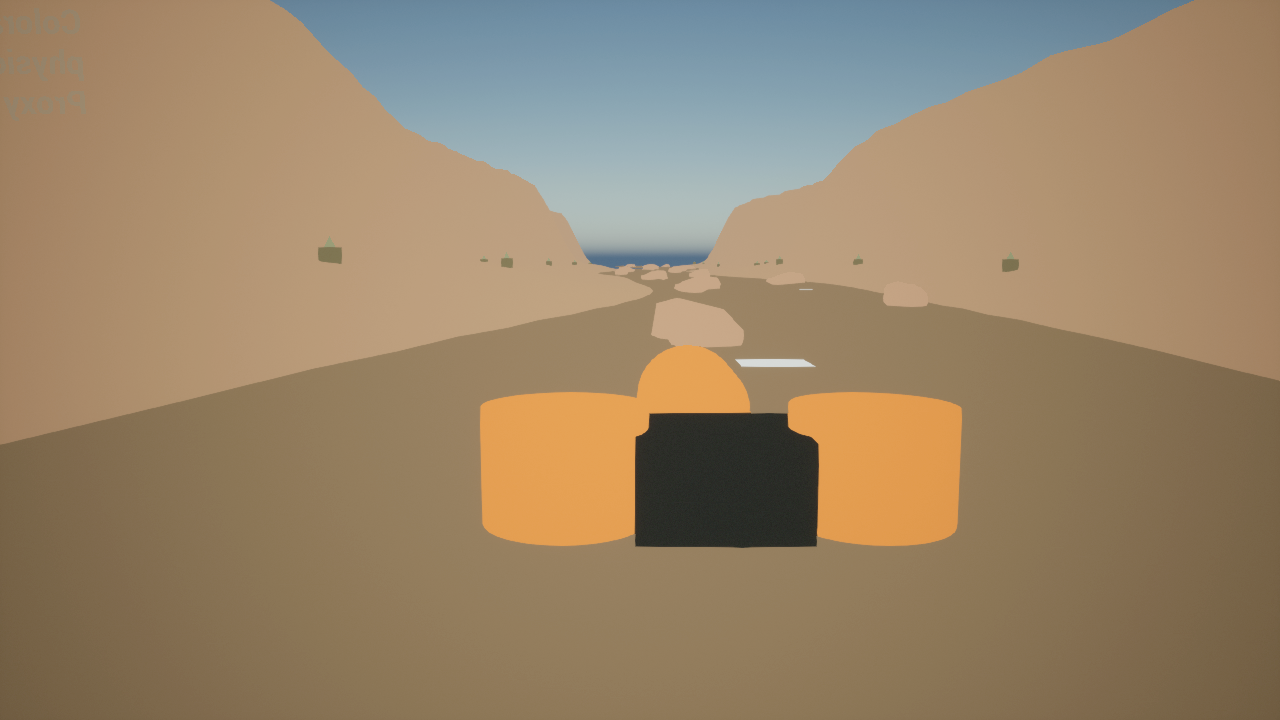
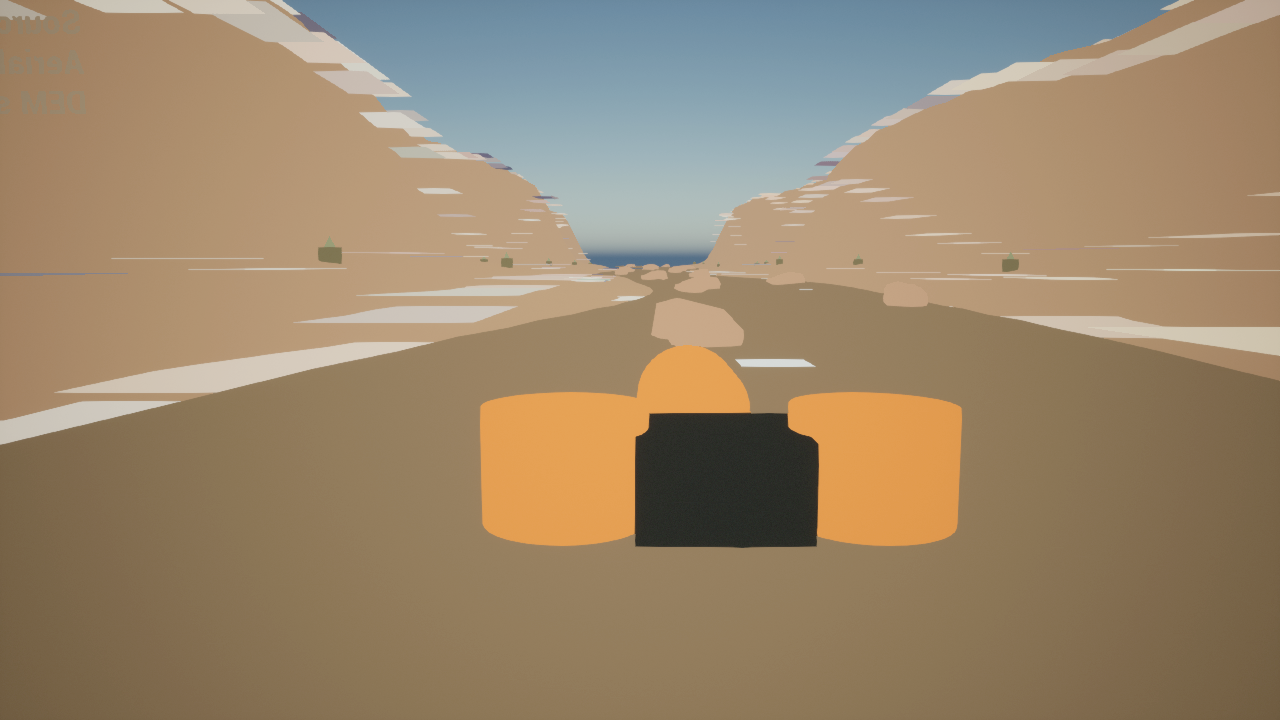
Add Colorado official source slice

diff --git a/unreal/Plugins/RaftSim/Source/RaftSimEditor/Private/RaftSimEditorModule.cpp b/unreal/Plugins/RaftSim/Source/RaftSimEditor/Private/RaftSimEditorModule.cpp
@@ -211,6 +211,12 @@ TArray<FRaftSimEnvironmentPreviewSpec> GetEnvironmentPreviewSpecs()
     Colorado.DisplayName = TEXT("Colorado River Grand Canyon");
     Colorado.MapPackagePath = TEXT("/Game/RaftSim/Maps/EnvironmentPreviews/L_ColoradoGrandCanyon_PhotorealPreview");
     Colorado.SourceManifest = TEXT("physics/data/real_world/colorado_river_grand_canyon_rowing/source_manifest.json");
+    Colorado.AerialDrapeImage =
+        TEXT("physics/data/real_world/colorado_river_grand_canyon_rowing/imagery/usda_naip_lees_ferry_sample_512.png");
+    Colorado.ElevationSample =
+        TEXT("physics/data/real_world/colorado_river_grand_canyon_rowing/terrain/usgs_3dep_lees_ferry_sample_256.tif");
+    Colorado.SourceDrapeDescription =
+        TEXT("official USDA/APFO NAIP 512px Lees Ferry aerial sample sampled into visible canyon terrain overlay tiles; USGS 3DEP GeoTIFF sample recorded for follow-on canyon heightfield conditioning; rocks, foliage, water, foam, raft, and lighting remain proxy layers");
     Colorado.WaterColor = FLinearColor(0.28f, 0.20f, 0.12f);
     Colorado.TerrainColor = FLinearColor(0.48f, 0.30f, 0.18f);
     Colorado.RockColor = FLinearColor(0.55f, 0.32f, 0.20f);
@@ -2181,7 +2187,7 @@ bool FRaftSimEditorModule::CapturePhotorealEnvironmentPreviews(FString& OutSumma
         TEXT("%s\n")
         TEXT("  ]\n")
         TEXT("}\n"),
-        bAllCaptured ? TEXT("south_fork_source_draped_preview_and_procedural_blockout_captures_available; photoreal source_data_and_asset_replacement_required") : TEXT("one_or_more_captures_failed"),
+        bAllCaptured ? TEXT("south_fork_and_colorado_source_draped_previews_and_pacuare_procedural_blockout_available; photoreal source_data_and_asset_replacement_required") : TEXT("one_or_more_captures_failed"),
         *EntriesJson);
 
     const FString ManifestPath = FPaths::Combine(CaptureRoot, TEXT("environment_capture_manifest.json"));

diff --git a/docs/photoreal-river-environment-production-plan.md b/docs/photoreal-river-environment-production-plan.md
@@ -85,6 +85,7 @@ Treat this as a rain-fed tropical gorge environment until authoritative hydrolog
 - Rendered guide-seat procedural blockout captures now exist under `docs/environment-captures/photoreal_river_previews/`, but they are not lifelike production evidence yet.
 - The first South Fork official source slice now exists at `physics/data/real_world/south_fork_american_chili_bar/production_source_pull_manifest.json`: historical USGS `11445500` daily discharge, TNM NHD product metadata, TNM DEM/NAIP zero-hit diagnostics, a small USGS 3DEP GeoTIFF sample, and a small USDA/APFO NAIP aerial sample.
 - The South Fork preview now uses the USDA/APFO NAIP sample as a source-derived visible terrain overlay in Unreal. This proves the imagery-to-editor path, but it is a small smoke-test raster rather than a complete orthomosaic or terrain material pass.
+- The first Colorado/Lees Ferry official source slice now exists at `physics/data/real_world/colorado_river_grand_canyon_rowing/production_source_pull_manifest.json`: USGS `09380000` and `09402500` daily discharge histories through July 4, 2026, a small USGS 3DEP GeoTIFF sample, and a small USDA/APFO NAIP aerial sample. The Colorado preview uses that NAIP sample as a source-derived visible canyon terrain overlay.
 - The existing default map path `/Game/RaftSim/Maps/L_RaftSimBoot` has no committed level asset yet.
 - Colorado and Pacuare still need real geospatial pulls, hydrology review, guide review, and rights-cleared field/reference media.
 - South Fork has the only solver corridor package, but its terrain, imagery, and field media are still representative placeholders rather than production pulls.
@@ -96,5 +97,6 @@ Treat this as a rain-fed tropical gorge environment until authoritative hydrolog
 - South Fork source data: `physics/data/real_world/south_fork_american_chili_bar/production_source_pull_manifest.json` records the initial official pull; this is enough to prove provenance plumbing but not enough for production terrain/imagery.
 - South Fork Unreal source layer: `physics/data/real_world/south_fork_american_chili_bar/imagery/usda_naip_chili_bar_sample_512.png` is sampled into visible terrain overlay tiles for the generated preview map; `physics/data/real_world/south_fork_american_chili_bar/terrain/usgs_3dep_chili_bar_sample_256.tif` is recorded in the generated capture manifest for the next heightfield-conditioning pass.
 - Colorado River: `/Game/RaftSim/Maps/EnvironmentPreviews/L_ColoradoGrandCanyon_PhotorealPreview`, capture `docs/environment-captures/photoreal_river_previews/colorado_river_guide_seat_downstream.png`.
+- Colorado source data: `physics/data/real_world/colorado_river_grand_canyon_rowing/production_source_pull_manifest.json` records the initial official pull; `imagery/usda_naip_lees_ferry_sample_512.png` is sampled into visible canyon terrain overlay tiles, and `terrain/usgs_3dep_lees_ferry_sample_256.tif` is recorded for the next canyon heightfield-conditioning pass.
 - Pacuare River: `/Game/RaftSim/Maps/EnvironmentPreviews/L_PacuareRainforest_PhotorealPreview`, capture `docs/environment-captures/photoreal_river_previews/pacuare_guide_seat_downstream.png`.
 - These captures verify editor automation, camera placement, generated valley terrain meshes, curved river ribbons, foam/hydraulic cue strips, boulder bars, foliage proxies, and per-river light/fog variants. They must be replaced by source-derived or rights-cleared photoreal passes before the goal is complete.

diff --git a/TODO.md b/TODO.md
@@ -930,6 +930,7 @@ This milestone turns the three runnable river targets into complete, reviewable,
 - [x] Upgrade the first-pass Unreal environment previews from flat proxy planes to generated valley terrain meshes, curved river ribbons, foam/hydraulic cue strips, boulder bars, river-specific foliage proxies, light/fog variants, and guide-seat camera framing.
 - [x] Attach the first official South Fork production source slice: historical USGS 11445500 daily discharge, TNM NHD product metadata, TNM DEM/NAIP zero-hit diagnostics, a small USGS 3DEP GeoTIFF sample, and a small USDA/APFO NAIP aerial sample are recorded in `physics/data/real_world/south_fork_american_chili_bar/production_source_pull_manifest.json`.
 - [x] Drape the official South Fork USDA/APFO NAIP aerial sample into the generated Unreal terrain preview as a source-derived visible overlay layer, and record the paired USGS 3DEP sample in the capture/source manifests for follow-on heightfield conditioning. This improves provenance and visual grounding but is still not a production photoreal river environment.
+- [x] Attach the first official Colorado/Lees Ferry production source slice: USGS 09380000 and 09402500 daily discharge histories, a small USGS 3DEP GeoTIFF sample, and a small USDA/APFO NAIP aerial sample are recorded in `physics/data/real_world/colorado_river_grand_canyon_rowing/production_source_pull_manifest.json` and wired into the Unreal preview overlay path.
 - [ ] Pull or attach reviewed production geospatial source data: DEM/lidar, hydrography, aerial/satellite imagery, water/vegetation masks, flow/gauge/rainfall history, protected-area/access context, and guide/media annotation references.
 - [ ] Replace proxy terrain, banks, rocks, foliage, water materials, foam/spray/mist, wetness, and lighting with source-derived or rights-cleared assets until screenshots read as lifelike without hiding hazards or rescue targets.
 - [ ] Add or license production-quality river environment asset packs/materials, or generate approved first-party procedural equivalents, for canyon walls, riverbeds, wet boulders, shore vegetation, tropical canopy, foam/spray/mist, raft foreground, and river-specific atmospheric lighting.

diff --git a/docs/real-world-river-content-plan.md b/docs/real-world-river-content-plan.md
@@ -383,6 +383,7 @@ Each real-world river section must pass:
 - Build seasonal presets and difficulty-flow mapping.
 - Make fluid parameters adaptive to river/season/flow/difficulty.
 - Current South Fork source slice: `physics/data/real_world/south_fork_american_chili_bar/production_source_pull_manifest.json` records historical USGS `11445500` daily discharge, TNM NHD product metadata, TNM DEM/NAIP zero-hit diagnostics, a small USGS 3DEP GeoTIFF sample, and a small USDA/APFO NAIP aerial sample for import-pipeline smoke testing. The Unreal preview automation now drapes that NAIP sample into the generated South Fork terrain as visible overlay tiles and records the paired 3DEP sample for follow-on heightfield conditioning.
+- Current Colorado source slice: `physics/data/real_world/colorado_river_grand_canyon_rowing/production_source_pull_manifest.json` records USGS `09380000` and `09402500` daily discharge histories through July 4, 2026, a small Lees Ferry USGS 3DEP GeoTIFF sample, and a small USDA/APFO NAIP aerial sample. The Unreal preview automation now drapes that NAIP sample into the generated Colorado canyon terrain as visible overlay tiles and records the paired 3DEP sample for follow-on heightfield conditioning.
 
 ### Milestone E: River Selection UX
 